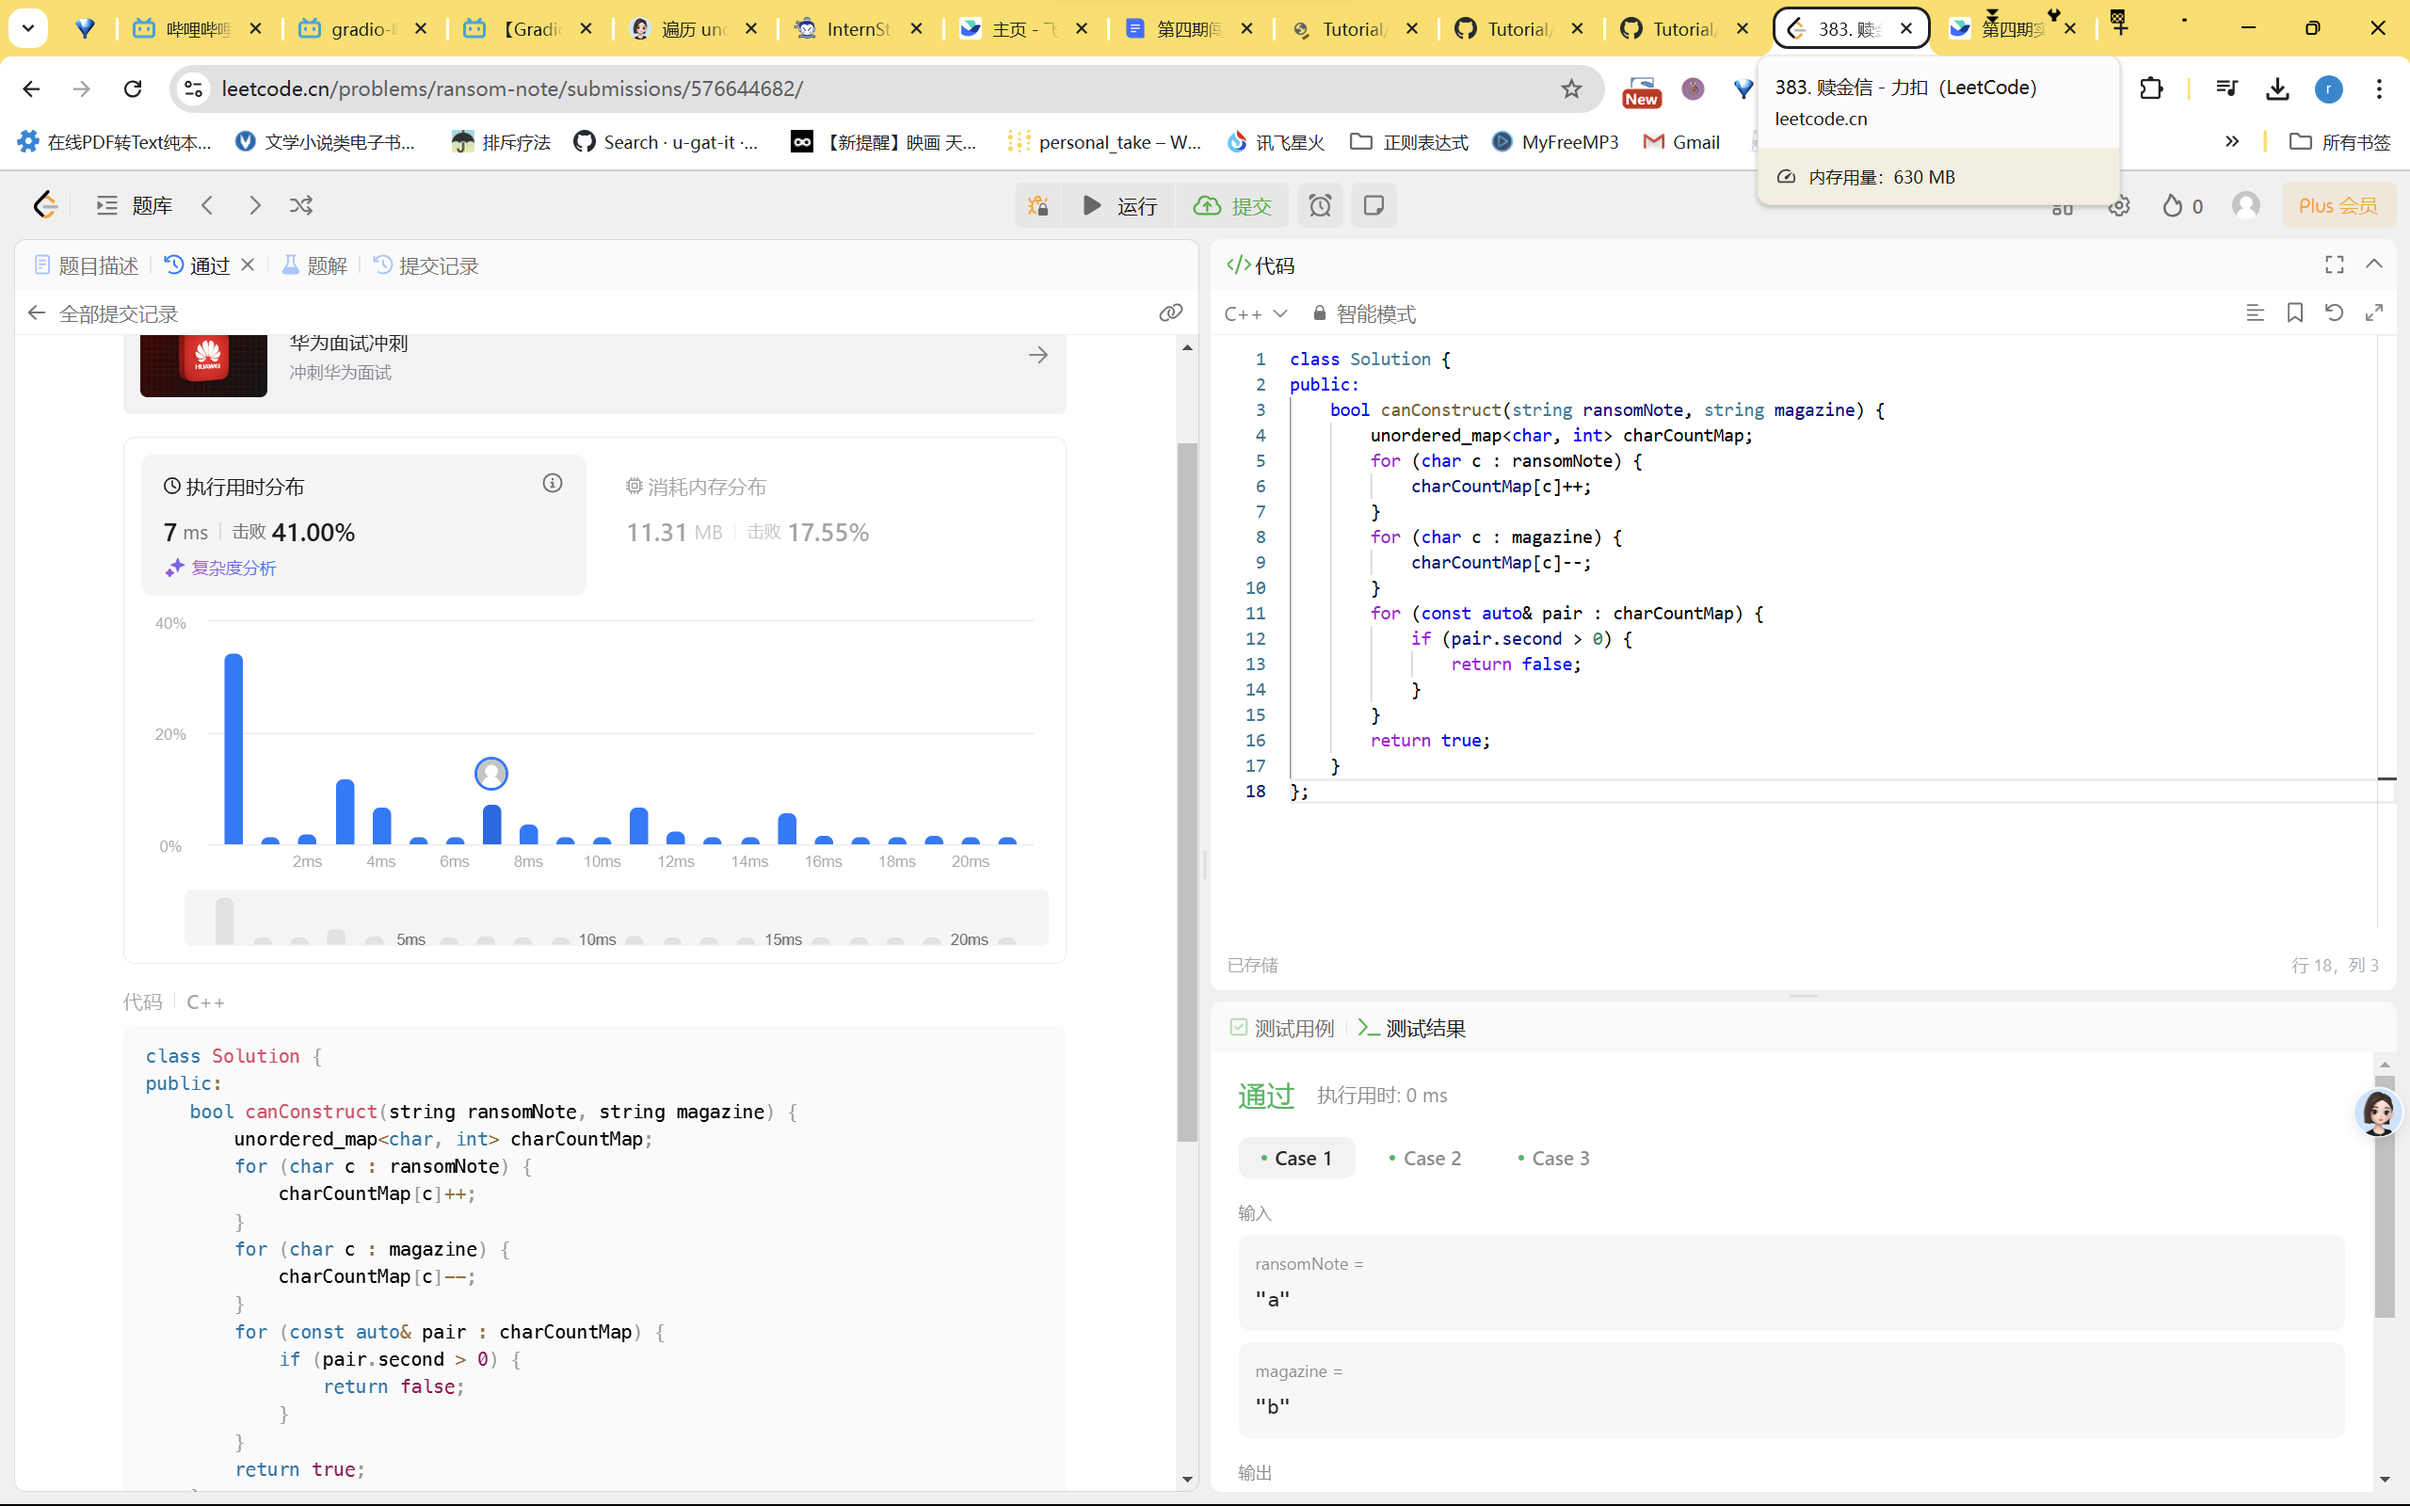
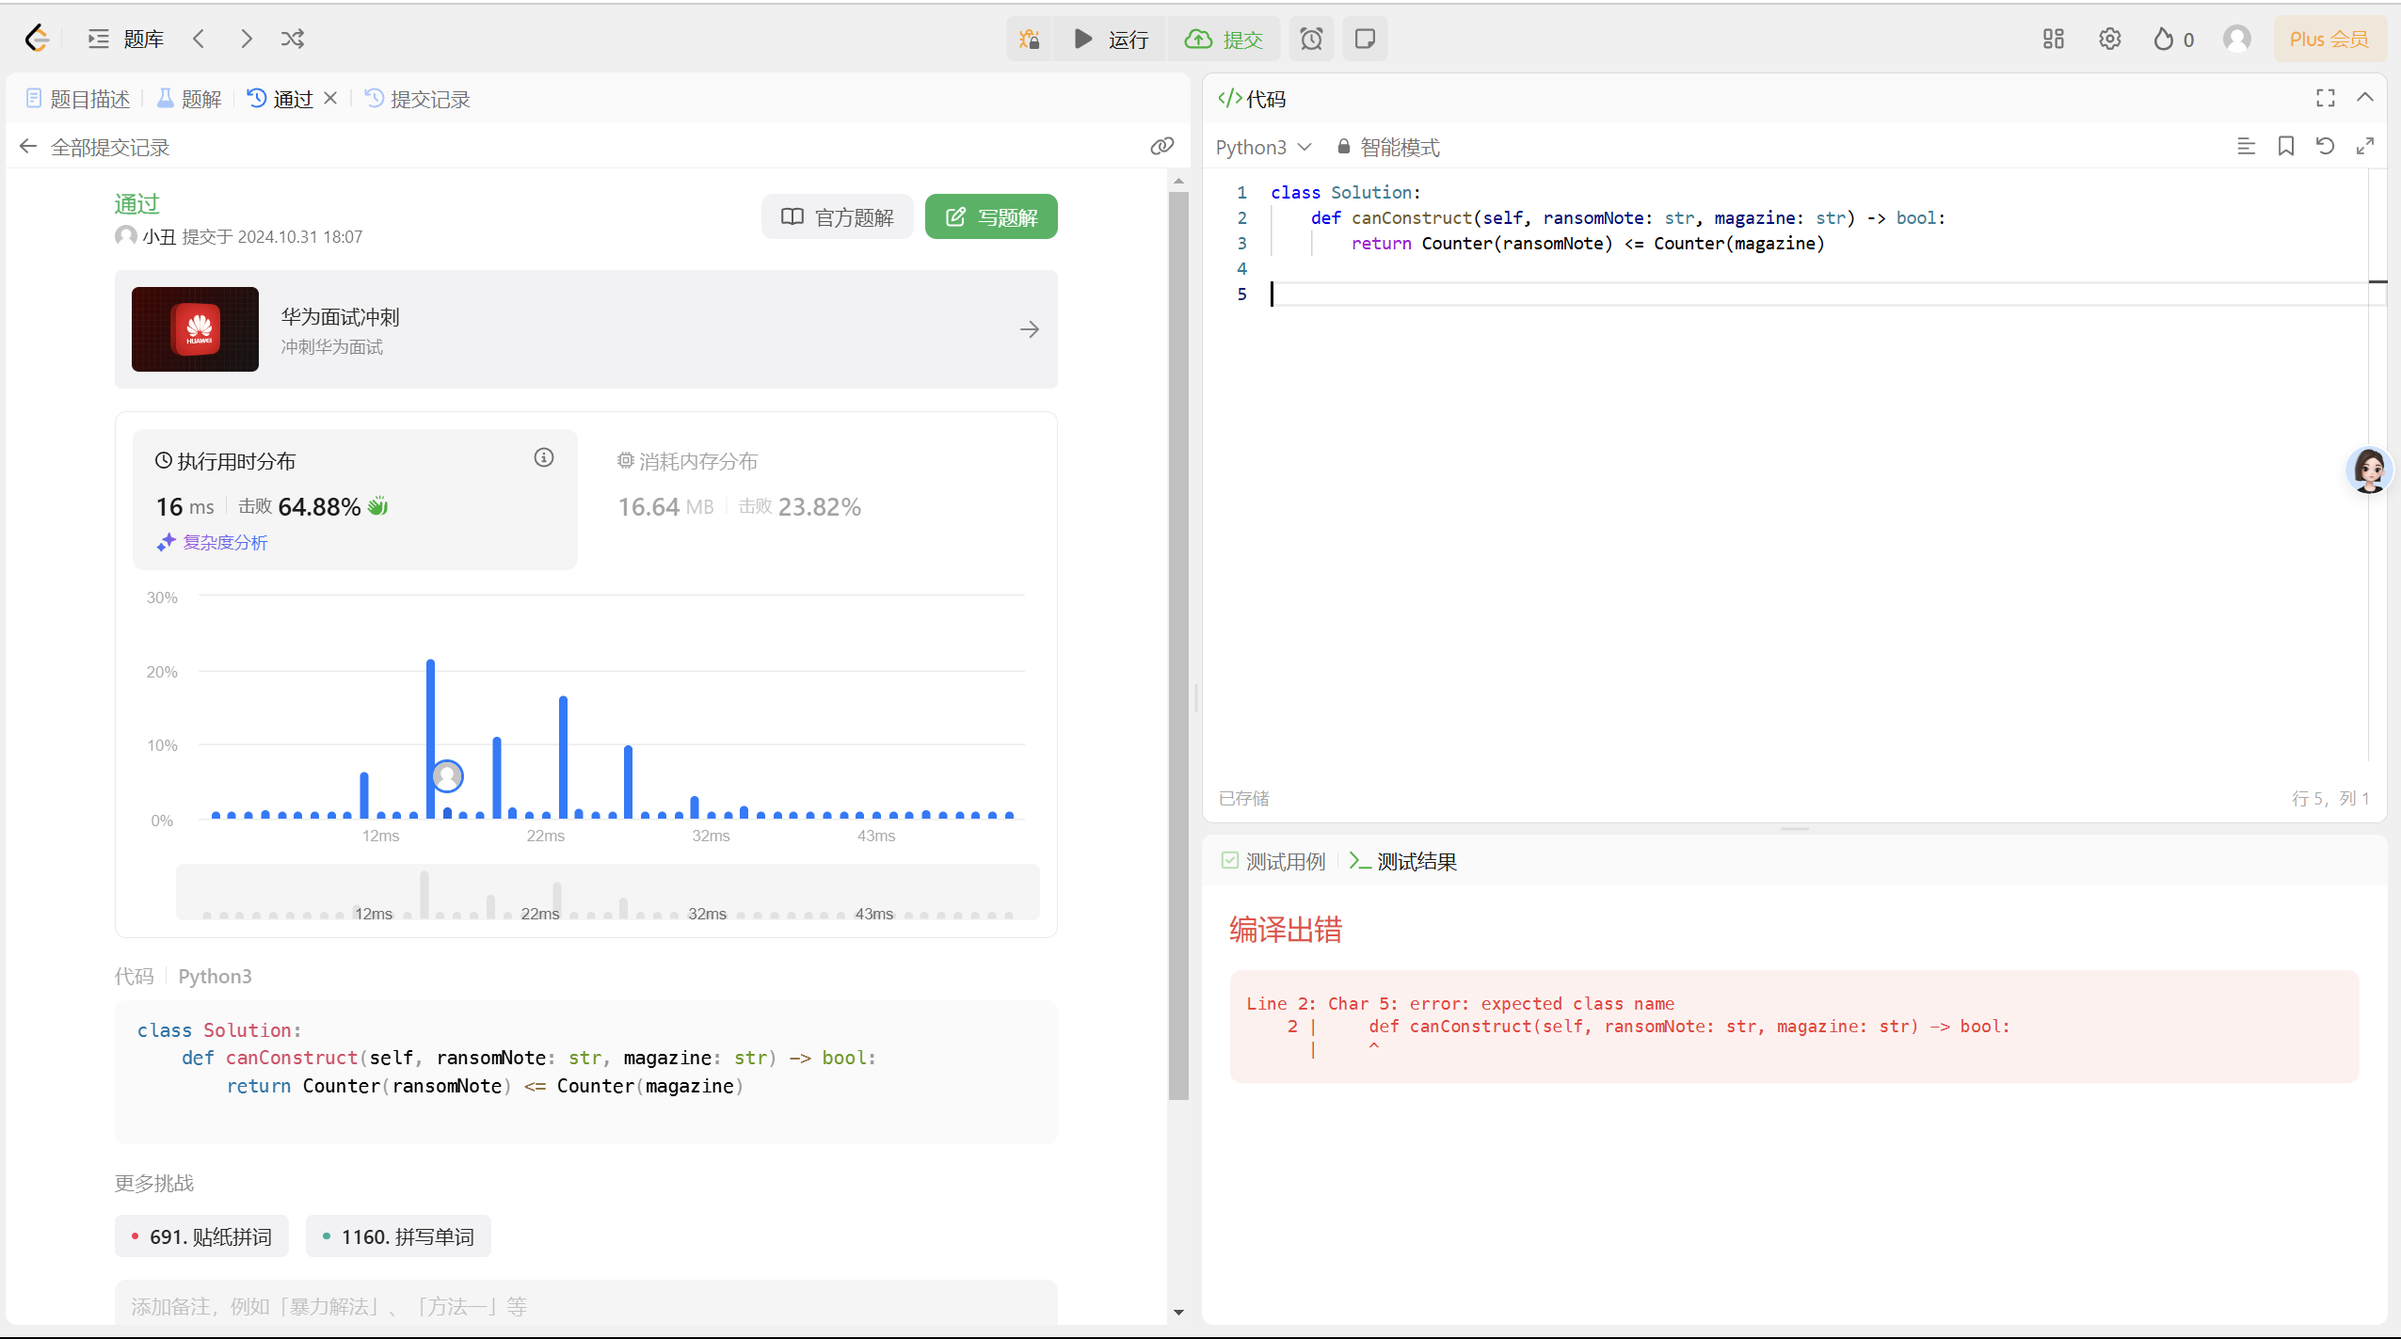
complete

diff --git a/L0/python.md b/L0/python.md
@@ -3,24 +3,11 @@
 ![3](./img/leetcode.png)
 ```python
 
-class Solution {
-public:
-    bool canConstruct(string ransomNote, string magazine) {
-        unordered_map<char, int> charCountMap;
-        for (char c : ransomNote) {
-            charCountMap[c]++;
-        }
-        for (char c : magazine) {
-            charCountMap[c]--;
-        }
-        for (const auto& pair : charCountMap) {
-            if (pair.second > 0) {
-                return false;
-            }
-        }
-        return true;
-    }
-};
+class Solution:
+    def canConstruct(self, ransomNote: str, magazine: str) -> bool:
+        return Counter(ransomNote) <= Counter(magazine)
+
+
 
 
 ```

diff --git a/L0/git.md b/L0/git.md
@@ -8,4 +8,4 @@ pr link https://github.com/InternLM/Tutorial/pull/2189
 
 # task2
 
-repo link https://github.com/bestkojima/Tutorial/tree/class
+repo link https://github.com/InternLM/Tutorial/tree/camp4
